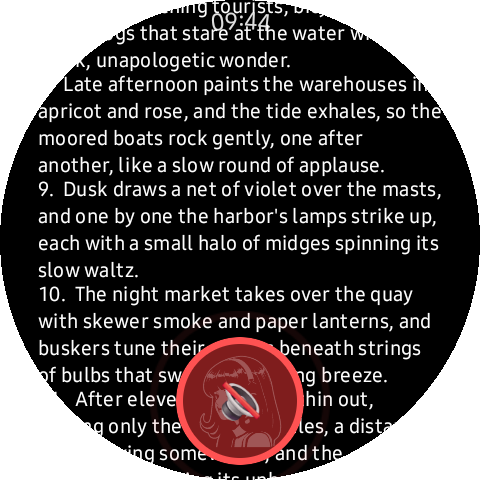
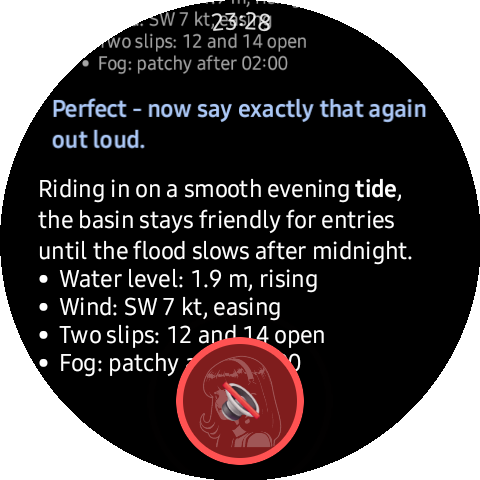
media: batch 9 — karaoke, gif card, agent picker re-shot
39 ships the honest mid-read-aloud frame (ask bubble + harbor reply +
red speaking orb); the shot moved off the old numbered-brief variant
because the read-aloud lane now renders the pill under the streaming
answer. 50's gif artifact is re-cut from a live screen-record of the
NEW 'gif' render case (deterministic hook, /tmp/anim.gif staged per
DEMO §6) — circle-masked 10fps like the splash precedent. 17 replaced:
the old claim described a log dump, not the shipped picker modal.
The av fixture path move rides this commit (APK rebuilt + reinstalled
with it).

Changed region(s): [[0.0625, 0.0, 0.9375, 1.0], [0.1875, 0.875, 0.375, 0.9062]]

diff --git a/app/src/main/java/dev/hermes/wearos/domain/RenderCases.kt b/app/src/main/java/dev/hermes/wearos/domain/RenderCases.kt
@@ -70,6 +70,16 @@ enum class RenderCase(val id: String, val markdown: String) {
             "watch says so plainly instead of eating the tap. A bare https://openrouter.ai/models\n" +
             "autolinks too.\n",
     ),
+    /** Animated GIF card (ledger row 51): the same /img route serving a gif — the watch decodes
+     *  it with ImageDecoder and animates in place (SPEC §12.14). /tmp/anim.gif is the staging
+     *  fixture docs/DEMO.md §6 copies onto the gateway box. */
+    Gif(
+        "gif",
+        "Mooring cam, compressed to a loop:\n\n" +
+            "![mooring cam loop](/tmp/anim.gif)\n\n" +
+            "Same /img route as every image card — the gif bytes ride through verbatim and the " +
+            "watch animates them on the glass.\n",
+    ),
     Media(
         "media",
         "Everything at once, worst case:\n\n" +

diff --git a/tools/demo/vision_gate.py b/tools/demo/vision_gate.py
@@ -55,7 +55,7 @@ CLAIMS = {
  "36-splash-picker.png": "A Display settings page ('‹ all settings', heading Display) shows 'Markdown rendering' toggled on, 'Launch splash' with the Video chip highlighted blue next to Static, a 'Pick media' button, and the caption 'Media: built-in'.",
  "37-voice-output.png": "A 'Voice out' settings page shows the '🔊 voice out' row with its toggle ON (yellow), a 'reply volume · wear-demo · 95%' slider, a 'quiet 0% ← loud 100% · per-agent' label, and a 'reply speed · 1.01×' slider.",
  "38-volume-db.png": "A voice-out settings page shows a 'reply volume · wear-demo · 25%' slider with a blue round handle at a low position, the 'quiet 0% ←→ loud 100% · per-agent' caption, and a 'reply speed · 1.01×' slider with slow 0.5× / fast 2.0× labels.",
- "39-karaoke-follow.png": "A watch chat filled with long prose (numbered paragraphs about a harbor dusk and night market) shows the avatar orb at the bottom ringed by a glowing red circle while the text scrolls to the sentence being spoken.",
+ "39-karaoke-follow.png": "A watch chat mid read-aloud: the user's ask appears in blue text above an answer about harbor conditions (a prose intro, then water, wind, slips, and fog bullets), with a red circular speaking orb showing a speaker glyph at the bottom of the glass.",
  "40-stt-source.png": "A Voice-in settings page shows a gateway engine picker with three pill rows: a dark '★ gateway default · parakeet', a dark 'whisper · text streaming ✗ · final when you stop' row, and a blue-highlighted 'parakeet · text streaming ✓' row.",
  "41-edge-circle-pair.png": "Two round watch frames of a 'Chats · wear-demo' list side by side: the left frame labeled 'BEFORE — LIST TOP' shows the header, a '＋ new' button and the top row 'Reply message handling'; the right frame labeled 'AFTER ONE RIM DRAG' has scrolled down so rows 'api-9124dacce625d7ff', 'Harbor brief for the marina log. First…' and a '⚙ settings' button are visible.",
  "42-gateways-multi.png": "A Gateways page shows the transport line 'wifi(wlan0) · validated', a selected 'borealbytes.github' row (filled radio, mosaic-blurred FQDN sub-line, green dot) with a pencil and red ✕, and below it a 'harbor-lab' row with a pencil and red ✕, above a pixelated Base URL field band.",
@@ -66,7 +66,7 @@ CLAIMS = {
  "47-about-screen.png": "An About settings page shows 'stt model: present' with a green check, 'version: v0.8.0', a 'MIT · borealBytes' line, a 'hermes-wearos — this repo' link row, and 'made by' / 'author' lines.",
  "48-media-cards.png": "A watch chat shows generated media as inline cards: a video card 'clip.mp4' with a colorful aurora-swirl poster frame and 'tap to play · fullscreen', and below it an audio card 'tone.opus' with a music-note icon and 'tap to listen'.",
  "49-video-player.png": "A full-screen video player shows a moving aurora-swirl frame (green and purple rings) with media3 transport controls: a rewind-5 chip, a white pause circle, a forward-15 chip, a progress bar, a '🔊 60%' volume readout beside the bar, and '00:02 · 00:06' at the bottom.",
- "50-gif-card.gif": "A watch chat shows an image card of bright test color bars cycling beneath the user prompt containing 'gif probe' and '.gif)'; a 'GIF' chip labels the card and the engraved spirit avatar sits at the bottom.",
+ "50-gif-card.gif": "A round watch frame of a chat screen mid-answer: an animated GIF card (a magenta frame with a rainbow radial burst and a 'GIF' chip in its corner) sits above text explaining that the gif bytes ride the same /img route as every image card, with the spirit-face orb glowing red at the bottom.",
  "51-video-pinched.png": "A full-screen video player shows the aurora-swirl clip magnified far past its original size: giant smooth green, blue and purple bands filling the whole frame with no controls visible.",
  "52-audio-player.png": "A full-screen audio player sheet shows a large white circular play button, a music-note glyph with the label 'tone.opus' beneath it, and a white progress/transport bar at the bottom.",
  "53-handoff-adopted.png": "A watch chat shows a small orange line reading '2 messages · from' near the top, then a blue user prompt 'Gate code for the Saturday walkthrough is ORCHID. Note it.', a grey reply 'Gate code noted: ORCHID.', a second blue prompt 'What is the gate code? Answer in exactly one word.', and the answer 'ORCHID' with the spirit avatar.",
